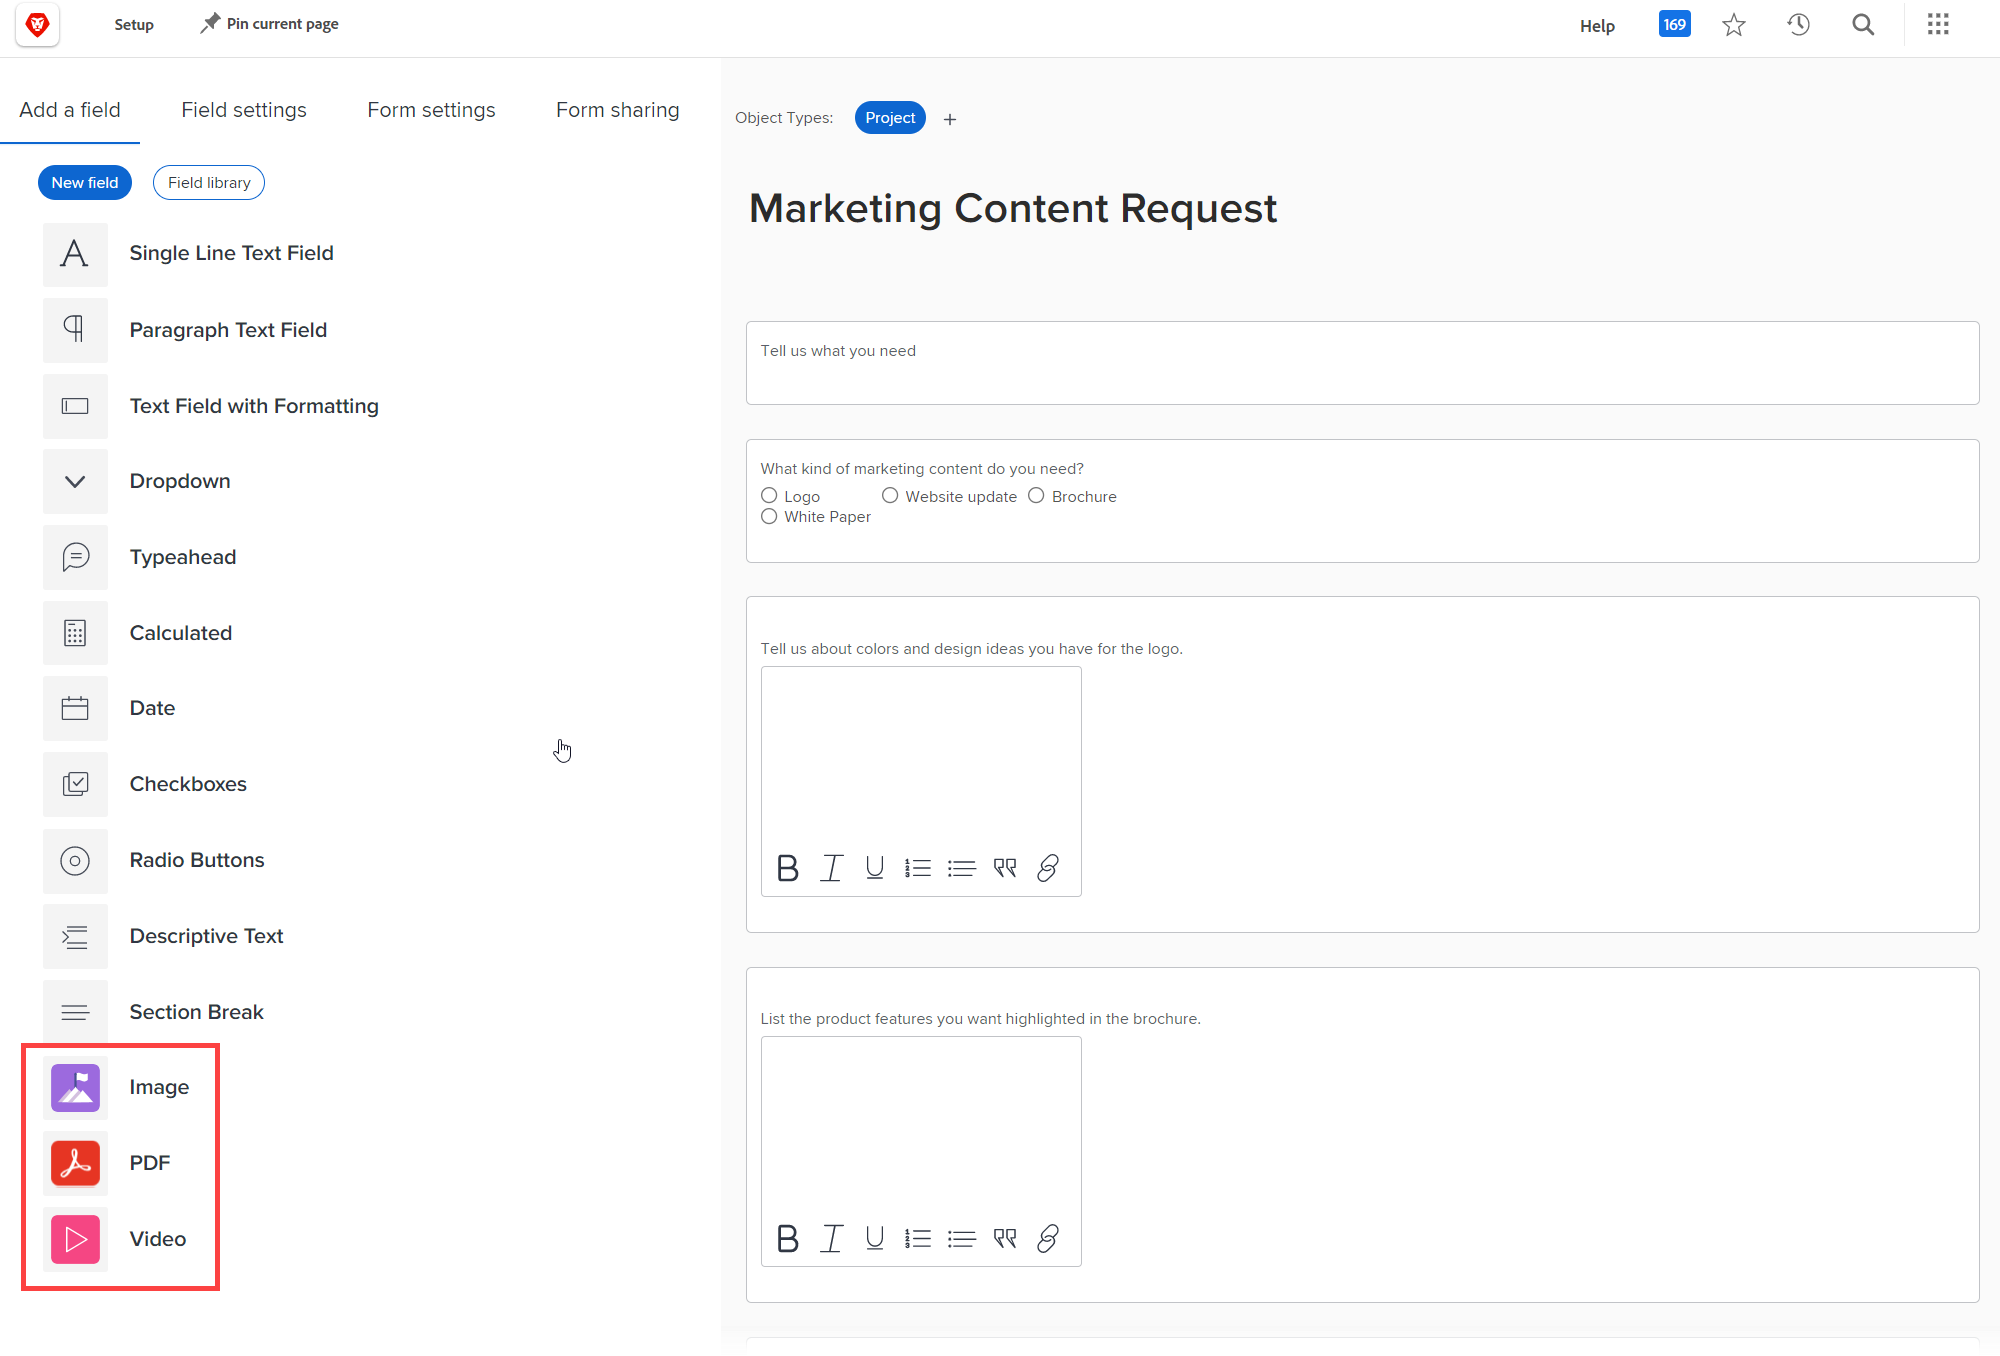
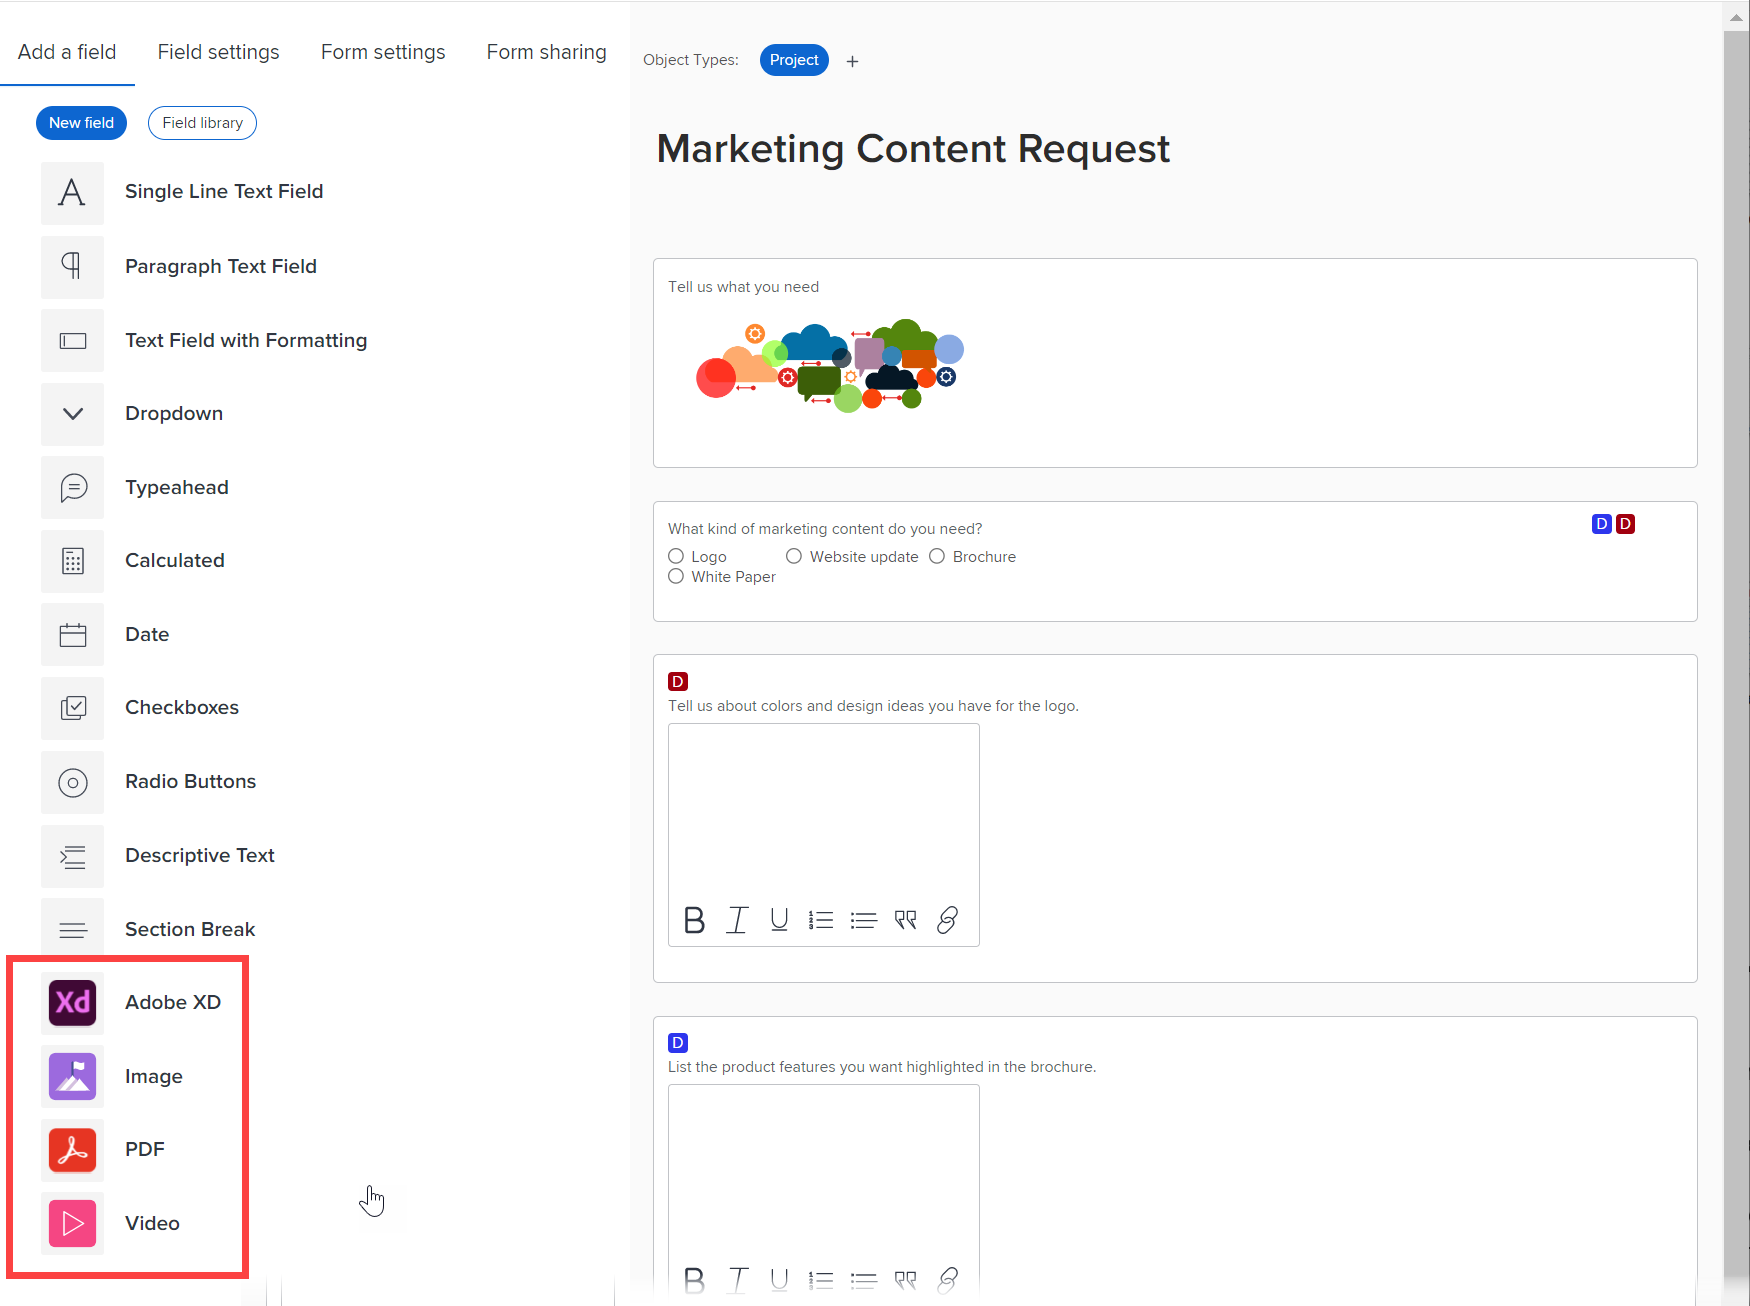
co

diff --git a/help/quicksilver/administration-and-setup/manage-groups/create-and-manage-groups/view-and-configure-event-notifications-group.md b/help/quicksilver/administration-and-setup/manage-groups/create-and-manage-groups/view-and-configure-event-notifications-group.md
@@ -66,43 +66,10 @@ You must have the following to perform the steps in this article:
    >* If a button in the <strong>Active</strong> column is grey and not dimmed <img src="assets/email-notification-disabled-unlocked.png">, the event notification is <strong>deactivated for all users and</strong> group administrators can activate it for their groups.
    >* If a button in the <strong>Active</strong> column is blue and dimmed <img src="assets/email-notification-enabled-locked.png">, the event notification is activated for all users and group administrators can't deactivate it or edit its email subject line for their groups.
    >* If a button in the <strong>Active</strong> column is blue and not dimmed <img src="assets/email-notification-enabled-unlocked.png">, the event notification is <strong>activated for all users and</strong> group administrators can deactivate it for their groups.
-     <!--
-     This step is for functionality from a Sprint 3 2021 story that got put on hold. Also see the PDF on the story for some text earlier in the article that needs to be added. IF WE'RE STICKING WITH TABLES, USE THE COMMENTED OUT TABLE BELOW.
-      1. To customize the email subject line of an event notification,
-       1. Click the name of the event notification.
-       1. In the <strong>Event Notification</strong> box that displays, in the <strong>Email Subject Line</strong> box, change the text and fields, including custom fields, then click <strong>Update</strong> to save the new subject lines for your emails.
-       IMPORTANT: The names of the fields added must match the camel case syntax of our database structure. For more information about how our objects and their fields are named in the Workfront database, see the <a href="../../../wf-api/workfront-api.md" class="MCXref xref">Adobe Workfront API</a>.
-       For more information about customizing the email subject line of an event notification, see <a href="../../../administration-and-setup/manage-workfront/emails/custom-email-subjects-event-notification.md" class="MCXref xref">Customize email subjects for event notifications</a>. 
-     --> 
-
-
-
-<!--
-   <table style="table-layout:auto"> 
-    <col> 
-    <col> 
-    <tbody> 
-     <tr> 
-      <td role="rowheader">Activate or deactivate an unlocked event notification</td> 
-      <td> <p>Click the button in the <strong>Active</strong> column to activate <img src="assets/email-notification-enabled-unlocked.png"> or deactivate <img src="assets/email-notification-disabled-unlocked.png"> it.</p> <p>For example, you could configure the top two Marketing group event notifications shown below that have been unlocked for groups.</p> <p> <img src="assets/configure-group-event-notifications-350x193.png"> </p> 
-       <ul> 
-        <li>If a button in the <strong>Active</strong> column is grey and dimmed <img src="assets/email-notification-disabled-locked.png">, the event notification is deactivated for all users and group administrators can't activate it or edit its email subject line</li> 
-        <li>If a button in the <strong>Active</strong> column is grey and not dimmed <img src="assets/email-notification-disabled-unlocked.png">, the event notification is <strong>deactivated for all users and</strong> group administrators can activate it for their groups.</li> 
-       </ul> 
-       <ul> 
-        <li>If a button in the <strong>Active</strong> column is blue and dimmed <img src="assets/email-notification-enabled-locked.png">, the event notification is activated for all users and group administrators can't deactivate it or edit its email subject line for their groups.</li> 
-        <li>If a button in the <strong>Active</strong> column is blue and not dimmed <img src="assets/email-notification-enabled-unlocked.png">, the event notification is <strong>activated for all users and</strong> group administrators can deactivate it for their groups.</li> 
-       </ul> </td> 
-     </tr> 
-     <!--
-     This row is for functionality from a Sprint 3 2021 story that got put on hold. Also see the PDF on the story for some text earlier in the article that needs to be added.
-      <tr data-mc-conditions="QuicksilverOrClassic.Draft mode"> 
-       <td role="rowheader">Customize the email subject line of an event notification </td> 
-       <td> 
-        <ol> 
-         <li value="1">Click the name of the event notification.</li> 
-         <li value="2"> <p>In the <strong>Event Notification</strong> box that displays, in the <strong>Email Subject Line</strong> box, change the text and fields, including custom fields, then click <strong>Update</strong> to save the new subject lines for your emails.</p> <p><b>IMPORTANT</b>: The names of the fields added must match the camel case syntax of our database structure. <!--For more information about how our objects and their fields are named in the Workfront database, see the <a href="../../../wf-api/workfront-api.md" class="MCXref xref">Adobe Workfront API</a>.</p> <p>For more information about customizing the email subject line of an event notification, see <a href="../../../administration-and-setup/manage-workfront/emails/custom-email-subjects-event-notification.md" class="MCXref xref">Customize email subjects for event notifications</a>. </p> </li> 
-        </ol> </td> 
-      </tr>
-     --> 
-   </table>
+<!--This step (with substeps) is for functionality from a Sprint 3 2021 story that got put on hold. Also see the PDF on the story for some text earlier in the article that needs to be added. 
+1. To customize the email subject line of an event notification,
+  1. Click the name of the event notification.
+  1. In the <strong>Event Notification</strong> box that displays, in the <strong>Email Subject Line</strong> box, change the text and fields, including custom fields, then click <strong>Update</strong> to save the new subject lines for your emails.
+  IMPORTANT: The names of the fields added must match the camel case syntax of our database structure. For more information about how our objects and their fields are named in the Workfront database, see the <a href="../../../wf-api/workfront-api.md" class="MCXref xref">Adobe Workfront API</a>.
+  For more information about customizing the email subject line of an event notification, see <a href="../../../administration-and-setup/manage-workfront/emails/custom-email-subjects-event-notification.md" class="MCXref xref">Customize email subjects for event notifications</a>. 
+    

diff --git a/help/quicksilver/administration-and-setup/customize-workfront/create-manage-custom-forms/add-widget-or-edit-its-properties-in-a-custom-form.md b/help/quicksilver/administration-and-setup/customize-workfront/create-manage-custom-forms/add-widget-or-edit-its-properties-in-a-custom-form.md
@@ -1,6 +1,6 @@
 ---
 title: Add or edit an asset widget in a custom form
-description: You can add or edit the properties of any of the following asset widgets such as images, videos, and PDF files in a custom form. This is useful when you need to include visual content such as branding images, an instructional video, or an interactive prototype for an app you are designing.
+description: You can add or edit the properties of any of the following asset widgets such as images, videos, PDF files, and Adobe XD files in a custom form. This is useful when you need to include visual content such as branding images, an instructional video, or an interactive prototype for an app you are designing.
 author: Caroline
 feature: System Setup and Administration
 role: Admin
@@ -13,6 +13,11 @@ You can add or edit the properties of any of the following asset widgets in a cu
 * Image
 * Video
 * PDF file
+* Adobe XD file
+
+  >[!NOTE]
+  >
+  >  The ability to add an Adobe XD widget to a custom form is not yet generally available. It is available only in the Preview Sandbox environment.
 
 This is useful when you need to include visual content such as branding images, an instructional video, or an interactive prototype for an app you are designing.  
 
@@ -46,9 +51,13 @@ You must have the following to perform the steps in this article:
 1. Begin working on a custom form, as described in [Create or edit a custom form](../../../administration-and-setup/customize-workfront/create-manage-custom-forms/create-or-edit-a-custom-form.md).
 1. With the **Add a field** tab open, do one of the following:
 
-   * If you are adding a new widget, select **Image**, **PDF**, or **Video** to add it at the bottom of the form, or drag it where you want it on the form.
+   * If you are adding a new widget, select **Image**, **PDF**, **Video**, or **Adobe XD** to add it at the bottom of the form, or drag it where you want it on the form.
 
-   ![](assets/add-widget.png)
+     ![](assets/add-widget.png)
+
+     >[!NOTE]
+     >
+     >The ability to add an Adobe XD widget to a custom form is not yet generally available. It is available only in the Preview Sandbox environment.
 
    * If you want to add a widget that has already been added to another custom form, click **Field library**, then click the name of the widget in the list that displays. For more information, see [Reuse a custom field or widget in a custom form](../../../administration-and-setup/customize-workfront/create-manage-custom-forms/reuse-an-existing-field.md).
    
@@ -66,7 +75,7 @@ You must have the following to perform the steps in this article:
      </tr> 
      <tr> 
       <td role="rowheader">Name</td> 
-      <td> <p>(Required) This name is how the system identifies the widget.</p> <p>When you are configuring the widget for the first time and you type the label, the Name field populates automatically to match it. But the Label and Name fields are not synchronized—this gives you the freedom to change the label that your users see without having to change the name that the system sees.</p> <p><b>IMPORTANT</b>: <span>Though it's possible to do so, we recommend that you do not change this name after you or other users start using the custom form in widget. If you do, the system will no longer recognize the widget where it might now be referenced in other areas of Workfront.</span> </p> <p>Each widget name must be unique in your organization's Workfront instance. This way, you can reuse one that was already created for another custom form. </p> </td> 
+      <td> <p>(Required) This name is how the system identifies the widget.</p> <p>When you are configuring the widget for the first time and you type the label, the Name field populates automatically to match it. But the Label and Name fields are not synchronized—this gives you the freedom to change the label that your users see without having to change the name that the system sees.</p> <p><b>IMPORTANT</b>: Though it's possible to do so, we recommend that you do not change this name after you or other users start using the custom form in widget. If you do, the system will no longer recognize the widget where it might now be referenced in other areas of Workfront. </p> <p>Each widget name must be unique in your organization's Workfront instance. This way, you can reuse one that was already created for another custom form. </p> </td> 
      </tr> 
      <tr> 
       <td role="rowheader">URL</td> 
@@ -78,7 +87,7 @@ You must have the following to perform the steps in this article:
       <li> <p>Link to video with MP4 and MOV extension</p> </li> 
       <li> <p>Link to video already uploaded to the Documents area in your Workfront instance. For instructions, see <a href="#add-a-video-widget-to-a-custom-form-from-the-documents-area" class="MCXref xref">Add a video widget to a custom form from the Documents area</a> in this article.</p> </li> 
       </ul> 
-       </div> <p><b>NOTE</b>:  <p>When a custom form containing a widget is attached to an object, users who work with the object can see it in the following areas:</p> 
+       <p><b>NOTE</b>:  <p>When a custom form containing a widget is attached to an object, users who work with the object can see it in the following areas:</p> 
        <ul> 
       <li> <p>The object's Details area (for example, for a project, the Project Details area)</p> </li> 
       <li> <p>The Edit box for the object, if it has the new Adobe Workfront experience look and feel (for example, the Edit Project and Edit Task boxes)</p> </li> 
@@ -88,7 +97,7 @@ You must have the following to perform the steps in this article:
       <li> <p>Home and Summary</p> </li> 
       <li> <p>The Edit box for the object, if it doesn't have the new Adobe Workfront experience look and feel (for example, the Edit Expense box)</p> </li> 
       <li> <p>The Workfront Mobile app</p> </li> 
-      </ul> </p> </td> 
+      </ul> </td> 
      </tr> 
      <tr> 
       <td role="rowheader">Instructions</td> 

diff --git a/help/quicksilver/administration-and-setup/manage-workfront/using-kick-starts/kick-starts-scenario-simple-project-task-import-prep.md b/help/quicksilver/administration-and-setup/manage-workfront/using-kick-starts/kick-starts-scenario-simple-project-task-import-prep.md
@@ -3,7 +3,7 @@ user-type: administrator
 product-area: system-administration;projects
 keywords: kickstart,kick-start,kickstarts,kick-starts
 navigation-topic: use-kick-starts
-title: 'Kick-Starts scenario: simple project and task import preparation'
+title: Kick-Starts scenario-simple project and task import preparation
 description: Describes in detail the available settings and controls for a basic Project and Task Import using the Kick Start method.
 author: Caroline
 feature: System Setup and Administration
@@ -12,7 +12,7 @@ exl-id: c095ce9d-b189-449b-bd13-2633837697ed
 ---
 # Kick-Starts scenario: simple project and task import preparation
 
-Describes in detail the available settings and controls for a  basic Project and Task Import using the Kick Start method. 
+Describes in detail the available settings and controls for a basic Project and Task Import using the Kick Start method. 
 
 ## **Scenario**
 

diff --git a/help/quicksilver/administration-and-setup/manage-workfront/security/configure-security-preferences.md b/help/quicksilver/administration-and-setup/manage-workfront/security/configure-security-preferences.md
@@ -93,7 +93,7 @@ You must have the following access to perform the steps in this article:
      </tr> 
      <tr> 
       <td role="rowheader">Automatically log users out after</td> 
-      <td> <p><b>NOTE</b>: <p>This option lets you specify when a user is logged out of Workfront, after a period of inactivity. By default, users are logged out after 8 hours of inactivity. </p> <p>This option also affects Workfront customers who are using a single sign-on solution.</p> </td> 
+      <td> Lets you specify when a user is logged out of Workfront, after a period of inactivity. By default, users are logged out after 8 hours of inactivity. <p>This option also affects Workfront customers who are using a single sign-on solution.</p> </td> 
      </tr> 
      <tr> 
       <td role="rowheader">Automatically log mobile users out after </td> 

diff --git a/help/quicksilver/administration-and-setup/tips-tricks-and-troubleshooting/error-message-saml-2-auth-failed-userid-not-found.md b/help/quicksilver/administration-and-setup/tips-tricks-and-troubleshooting/error-message-saml-2-auth-failed-userid-not-found.md
@@ -4,7 +4,7 @@ content-type: tips-tricks-troubleshooting
 product-area: system-administration;user-management
 navigation-topic: tips-tricks-troubleshooting-setup-admin
 title: 'Error message: SAML 2.0 Authentication Failed: User Identifier Not Found'
-description: "I am receiving this error when using SAML 2.0: 'SAML 2.0 Authentication Failed: User Identifier Not Found.'"
+description: When you are using SAML 2.0, the error "SAML 2.0 Authentication Failed-User Identifier Not Found" means that a UID or NAME ID is not passed from the ADFS Claim rules. In ADFS the Relying Party Trust needs to have a Claim rule that passes either a UID or a NAME ID value. When you run a Workfront Test Connection, it should show this if successful.
 author: Caroline
 feature: System Setup and Administration
 role: Admin

diff --git a/help/quicksilver/workfront-basics/work-with-custom-forms/export-custom-forms-details.md b/help/quicksilver/workfront-basics/work-with-custom-forms/export-custom-forms-details.md
@@ -18,8 +18,8 @@ This functionality is supported for the following objects:
 * Portfolio
 * Programs
 
-  <!--
-  <li class="preview" data-mc-conditions="QuicksilverOrClassic.Draft mode"> <p>Billing records</p> <p>After you open a billing record on a project, you can use the Details area to attach a custom form to the record and fill it out. You can also export billing record information from the Details area.</p> </li>
+<!--
+* Billing records</p> <p>After you open a billing record on a project, you can use the Details area to attach a custom form to the record and fill it out. You can also export billing record information from the Details area.</p> </li>
   -->
 
 >[!NOTE]

diff --git a/help/quicksilver/administration-and-setup/customize-workfront/create-manage-custom-forms/add-calculated-data-to-custom-form.md b/help/quicksilver/administration-and-setup/customize-workfront/create-manage-custom-forms/add-calculated-data-to-custom-form.md
@@ -138,6 +138,9 @@ You can use both built-in Workfront fields and custom fields that you already cr
    >  ![](assets/colors-fields-expressions.jpg)
    >* Find calculation errors, highlighted in pink, as you go. You can hover over a highlighted error to display a brief description of its cause.
    >  ![](assets/error-help.png) 
+
+      **NOTE**: This functionality is currently unavailable.
+      
    >* In the area below your calculation, preview the results on an existing Workfront object.
    ><!--or by providing test values (NOT READY YET; CHANGE THIS SCREENSHOT WHEN IT IS)-->
    >  ![](assets/preview-calc.jpg)
